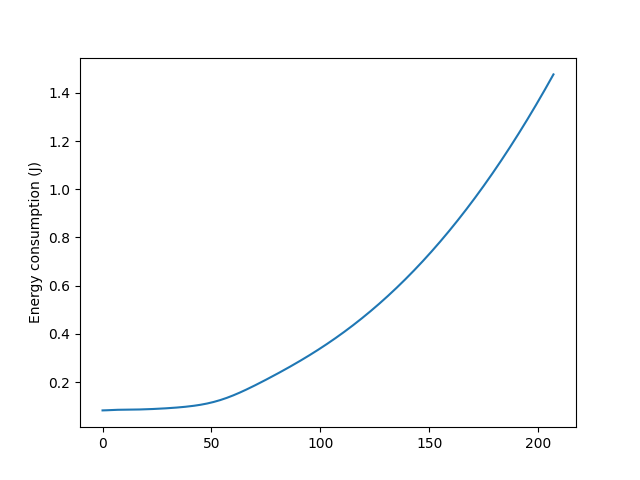
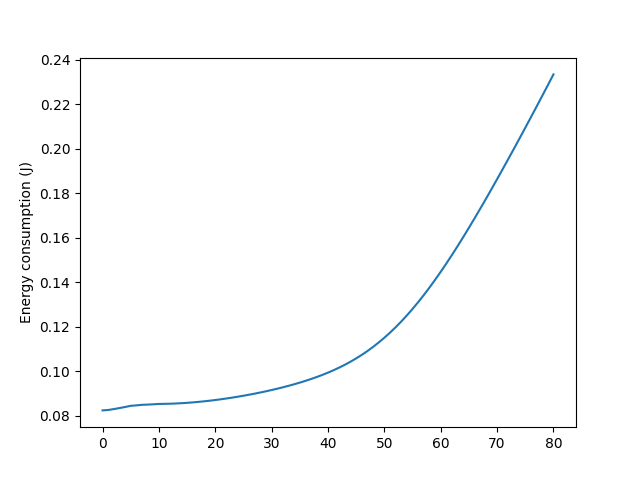
update figure ene for fixedi scenario

diff --git a/examples/plot_synthetic.py b/examples/plot_synthetic.py
@@ -131,7 +131,7 @@ def test_fixedi(in_file='./logs/system_model_fixedi.log'):
     plt.show()
 
     plt.figure(2)
-    plt.plot(rounds, energies)
+    plt.plot(rounds[:81], energies[:81])
     plt.ylabel("Energy consumption (J)")
     plt.savefig("./figures/plot_synthetic_ene_fixedi.png")
     plt.show()
